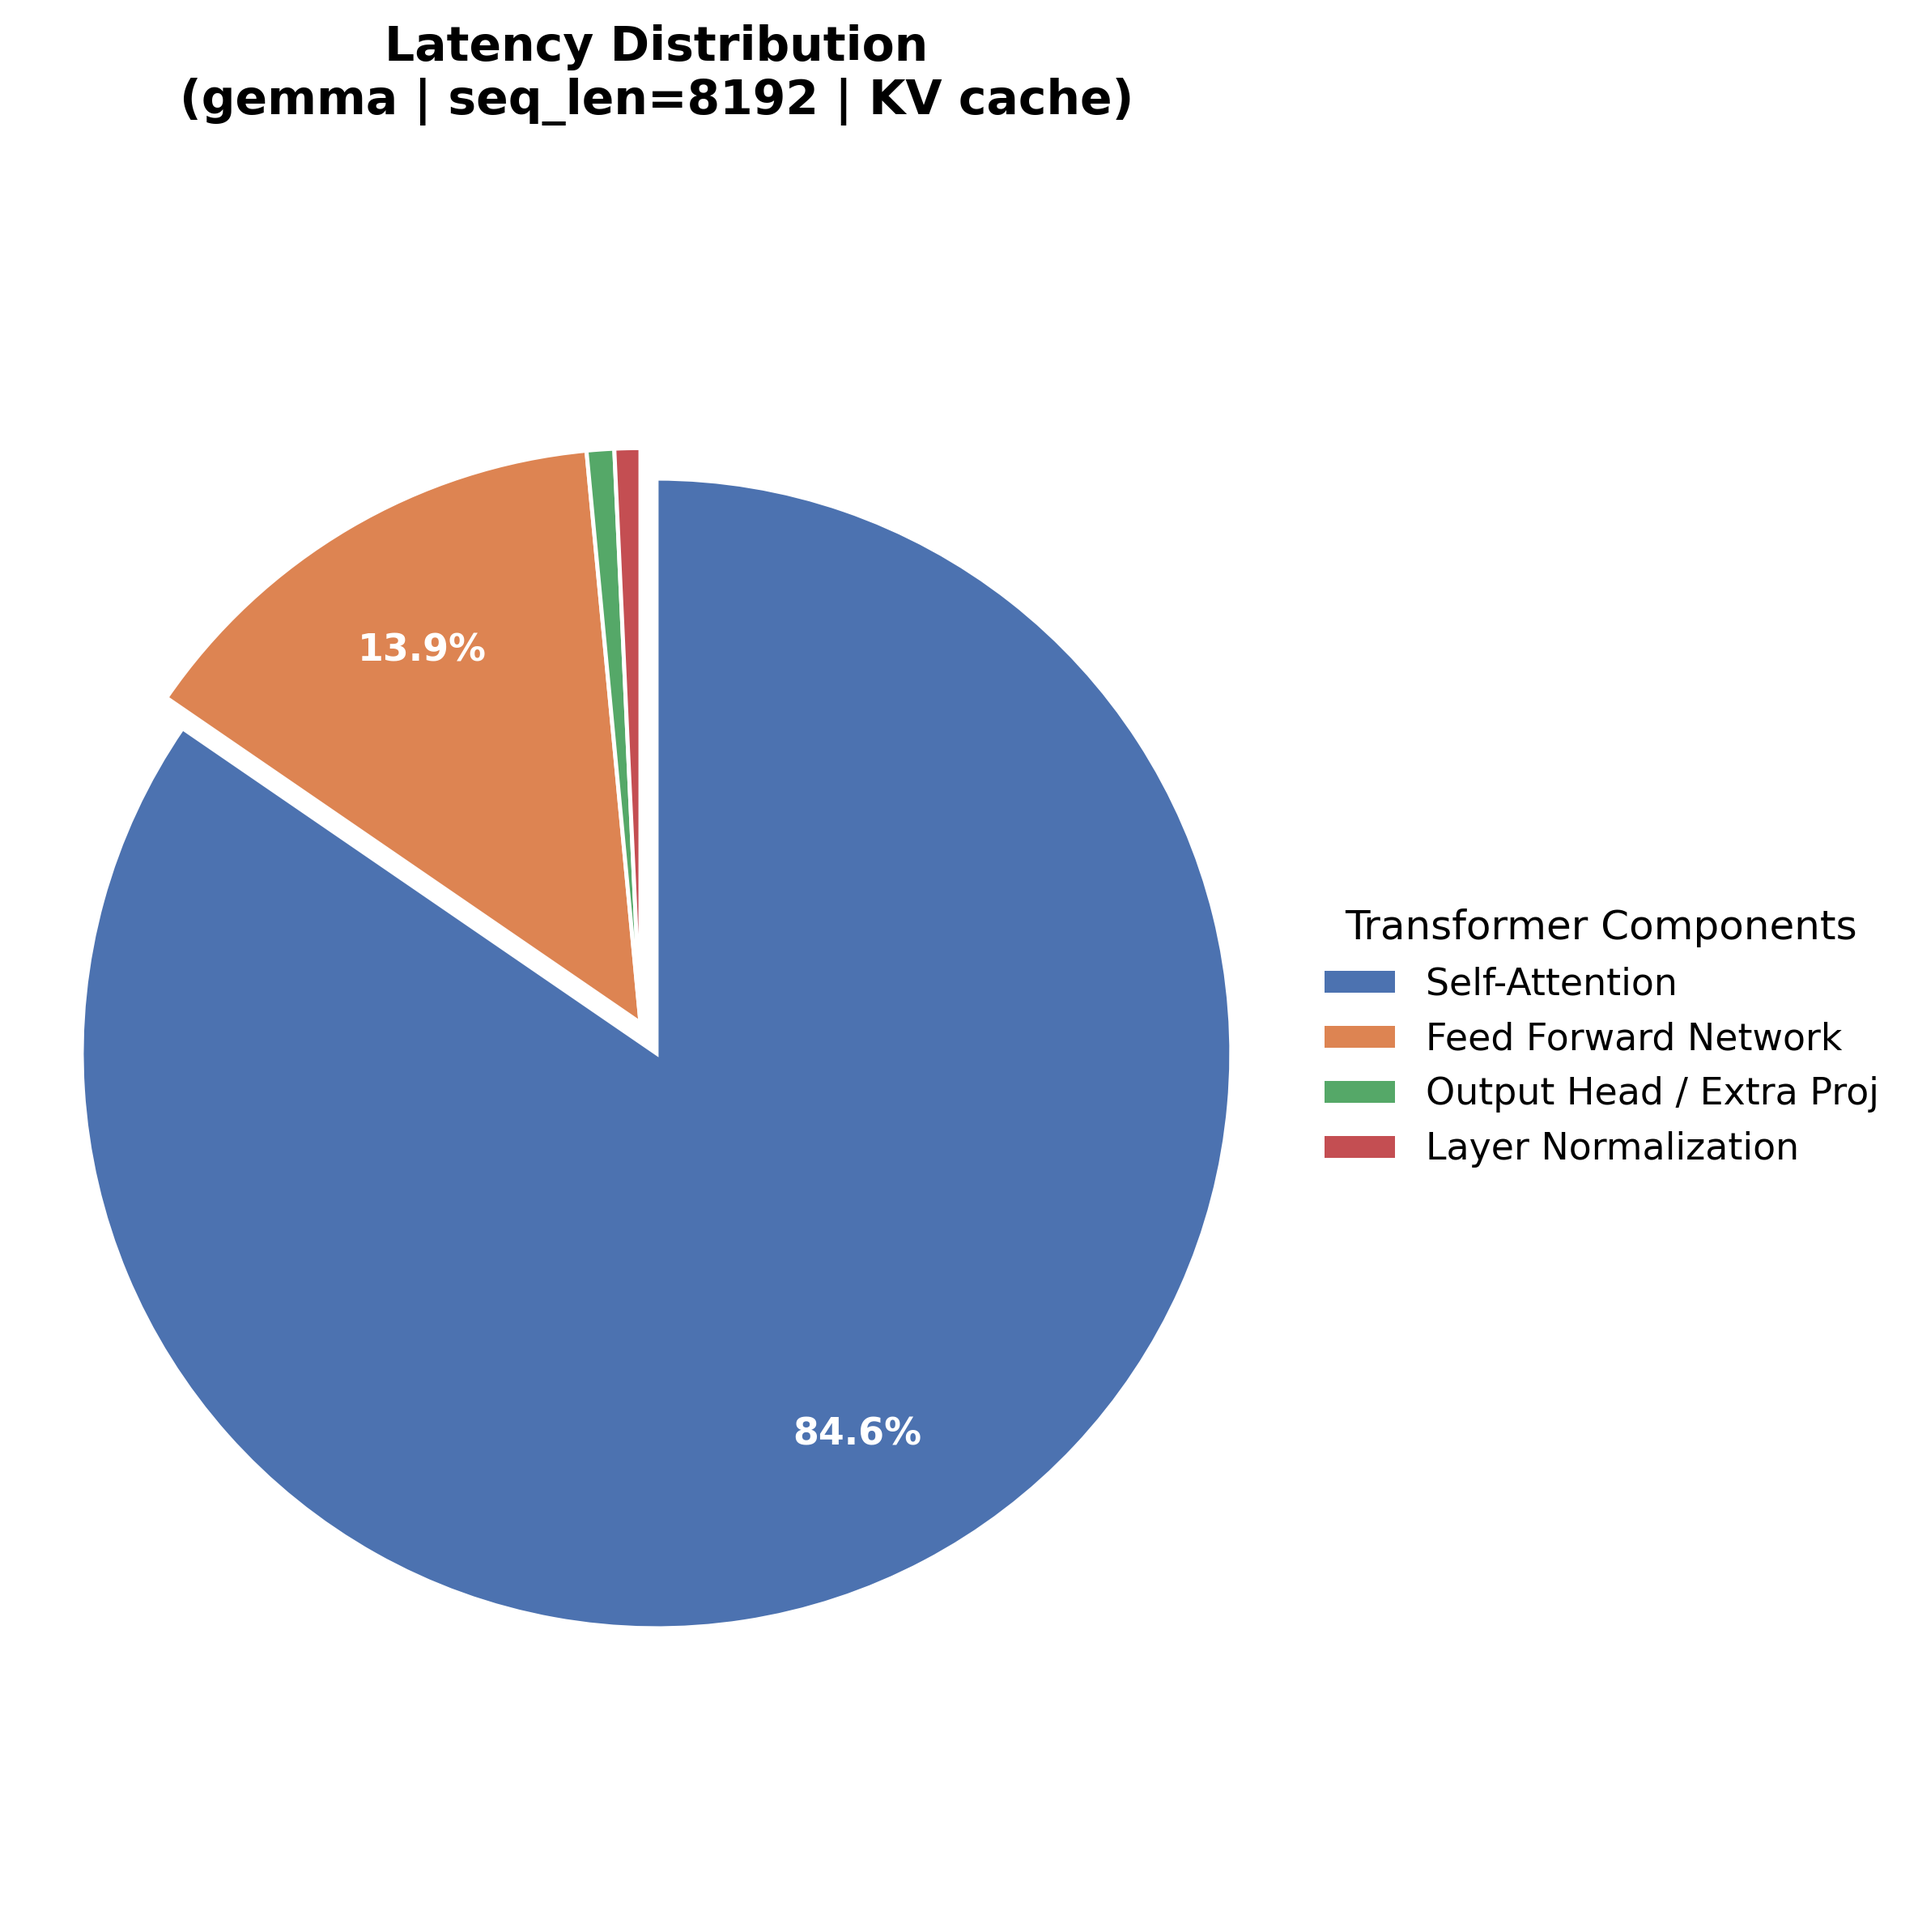
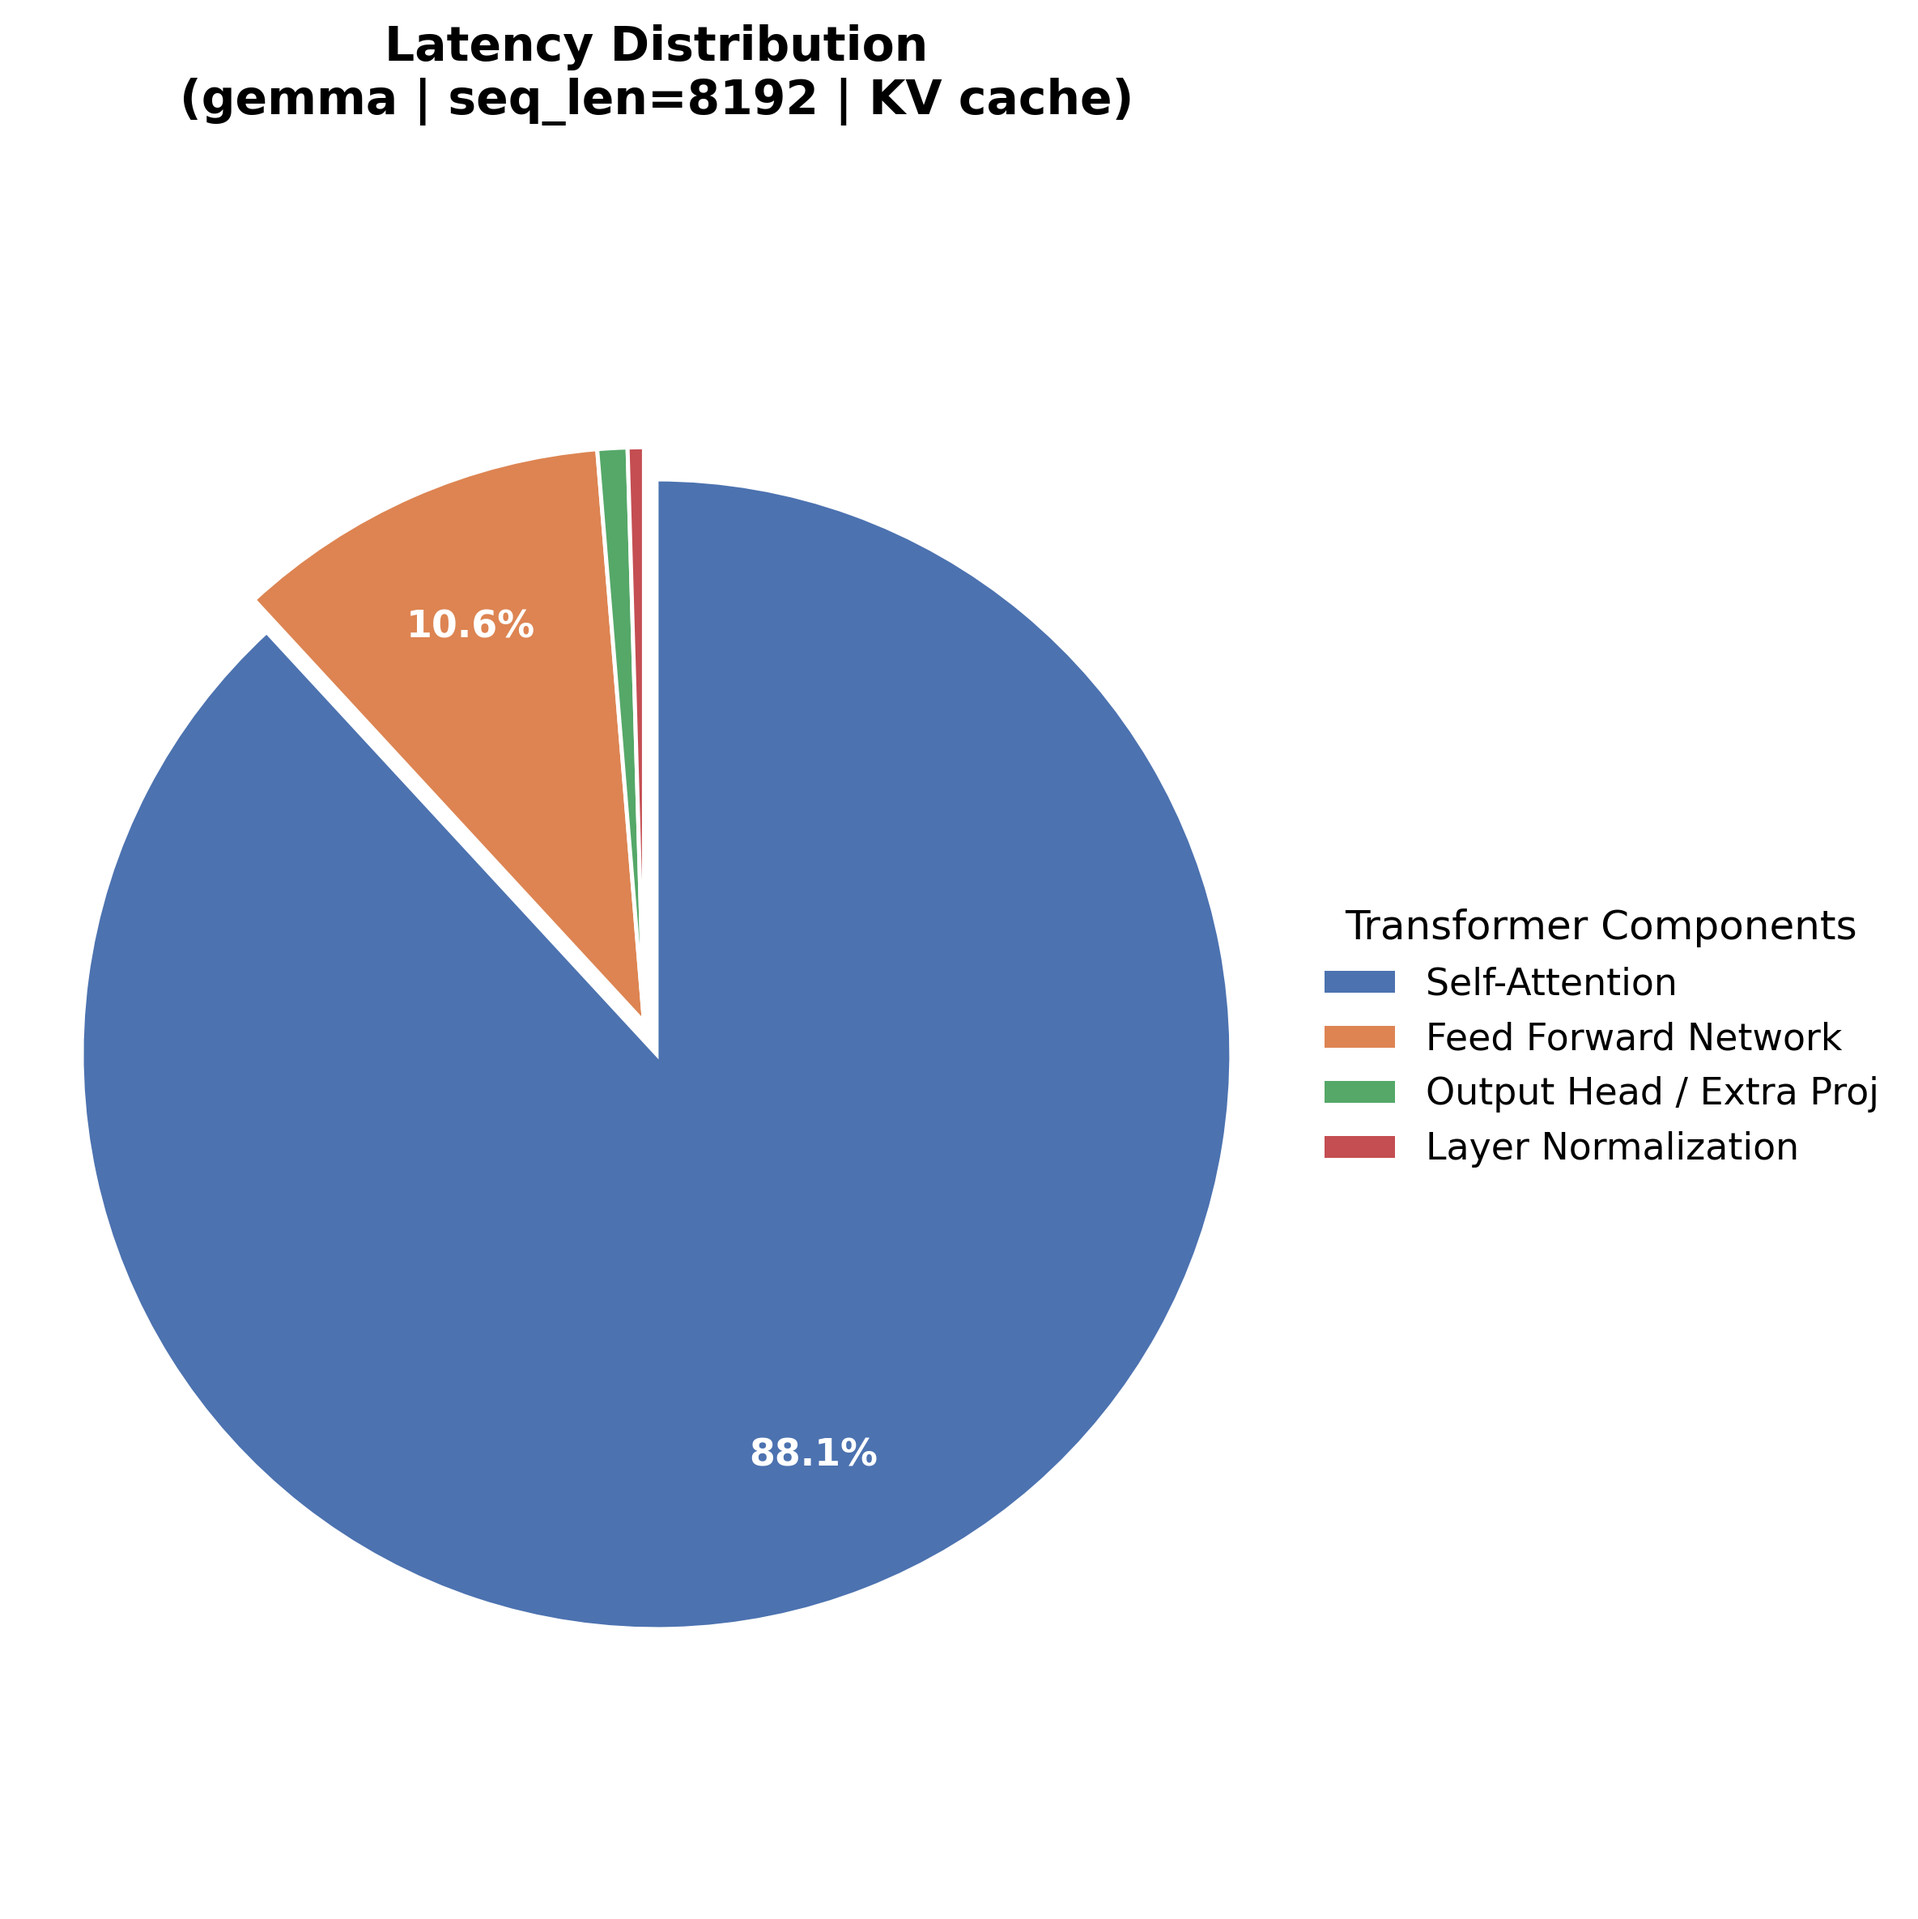
figures notebook

Changed region(s): [[0.0937, 0.2186, 0.3436, 0.562], [0.3748, 0.7181, 0.4686, 0.7806], [0.1874, 0.3122, 0.2811, 0.3435]]

diff --git a/model_family/llm_kv.py b/model_family/llm_kv.py
@@ -54,7 +54,7 @@ PastKV = Tuple[torch.Tensor, torch.Tensor]
 def get_model_config(model_type: str):
     base = {
         "vocab_size": 30257,
-        "context_length": 16384,
+        "context_length": 8192,
         "emb_dim": 3072,
         "n_heads": 32,
         "n_layers": 32,
@@ -127,6 +127,14 @@ class MultiHeadAttention(nn.Module):
         self.v_proj = nn.Linear(d, kv_dim)
         self.out_proj = nn.Linear(d, d)
 
+        # Preallocate causal mask once as float16 to save GPU memory.
+        # A float32 16k×16k mask = 1 GB per layer; float16 halves that.
+        # forward() takes a zero-copy slice — no allocation at decode time.
+        max_len = cfg["context_length"]
+        mask = torch.full((max_len, max_len), float("-inf"), dtype=torch.float16)
+        mask = torch.triu(mask, diagonal=1)  # upper triangle=-inf, rest=0
+        self.register_buffer("causal_mask", mask, persistent=False)
+
     def forward(self, x, past_kv=None, use_cache=False):
         b, t, d = x.shape
 
@@ -162,15 +170,11 @@ class MultiHeadAttention(nn.Module):
 
         total_len = k.size(-2)
         if t > 1 or past_len > 0:
-            # Build the mask once and cache it; only reallocate if shape changes.
-            cache_key = (t, total_len, past_len, x.device)
-            if not hasattr(self, "_mask_cache") or self._mask_cache_key != cache_key:
-                mask = torch.full((t, total_len), float("-inf"), device=x.device)
-                mask = torch.triu(mask, diagonal=1 + past_len)
-                self._mask_cache = mask
-                self._mask_cache_key = cache_key
+            # Slice the prealloc buffer — no allocation, no recompute.
+            # Row i of the query attends to keys 0..past_len+i (inclusive),
+            # which is exactly what causal_mask[:t, :total_len] encodes.
             with LATENCY.measure("attn.apply_causal_mask"):
-                scores = scores + self._mask_cache
+                scores = scores + self.causal_mask[:t, :total_len]
 
         with LATENCY.measure("attn.softmax"):
             attn = F.softmax(scores, dim=-1)
@@ -292,7 +296,9 @@ class GPTModel(nn.Module):
         if past_kv is not None and past_kv[0] is not None:
             past_len = past_kv[0][0].size(-2)  # (k shape: [b, h, seq, d])
 
+        max_pos = self.pos_emb.num_embeddings - 1
         pos_ids = torch.arange(past_len, past_len + t, device=x.device).unsqueeze(0)
+        pos_ids = pos_ids.clamp(max=max_pos)  # guard against overflow at context boundary
         pos = self.pos_emb(pos_ids)
         h = tok + pos
 
@@ -325,7 +331,7 @@ class GPTModel(nn.Module):
 # Generation — with KV cache  (cached decode)
 # ============================================================
 
-def generate_text_simple(model, idx, max_new_tokens, context_size=16384, device="cuda"):
+def generate_text_simple(model, idx, max_new_tokens, context_size=8192, device="cuda"):
     """
     Prefill the prompt once, then decode one token at a time using the KV cache.
     This is the standard cached generation path.
@@ -337,18 +343,23 @@ def generate_text_simple(model, idx, max_new_tokens, context_size=16384, device=
         idx_cond = idx[:, -context_size:]
 
         if torch.cuda.is_available():
-            with torch.cuda.amp.autocast(dtype=torch.float16):
+            with torch.amp.autocast('cuda', dtype=torch.float16):
                 logits, past_kv = model(idx_cond, use_cache=True)
         else:
             logits, past_kv = model(idx_cond, use_cache=True)
 
         for _ in range(max_new_tokens):
+            # Stop if the KV cache has reached the context limit.
+            current_len = past_kv[0][0].size(-2) if past_kv and past_kv[0] is not None else idx_cond.size(1)
+            if current_len >= context_size:
+                break
+
             logits = logits[:, -1, :]
             idx_next = torch.argmax(logits, dim=-1, keepdim=True)
             idx = torch.cat((idx, idx_next), dim=1)
 
             if torch.cuda.is_available():
-                with torch.cuda.amp.autocast(dtype=torch.float16):
+                with torch.amp.autocast('cuda', dtype=torch.float16):
                     logits, past_kv = model(idx_next, past_kv=past_kv, use_cache=True)
             else:
                 logits, past_kv = model(idx_next, past_kv=past_kv, use_cache=True)
